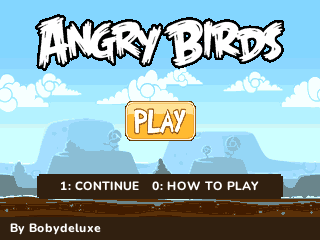
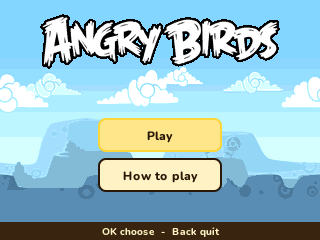
Angry Birds: docs and NumPlay's wiring
Angry Birds builds like UNO (BUILD_DIR, GAMES_REDIRECT, the apps and clean
rules, BIG_APPS, APP_SPACE_APPS: it installs in 1.73 MB), with a big-game
entry in games.json after Friday Night Funkin', its release line, its
emulator test and the CI's host test.

The game's README, its screenshots, the thumbnail and the GIF are new, made
in tools/emu.py.

diff --git a/tests/test_games.py b/tests/test_games.py
@@ -254,6 +254,11 @@ GAMES = {
     # guide read. Next time, from the copy: Options, downscroll on (Back saves it), quit with On/Off
     "fnf": ("FridayNightFunkin.nwa", "fnf.sav", presses((1500, "ok"), (2200, "ok"), (2900, "ok"), (3600, "back")), 7000,
             presses((1500, "ok"), (2200, "down"), (2700, "down"), (3200, "ok"), (3900, "ok"), (4600, "back")), 6000),
+    # the title, Poached Eggs, its first level, the story, how to play (the first time), then a bird launched; Home
+    # keeps the play time. Next time, from the copy, the same level without the guide, quit with On/Off
+    "angrybirds": ("AngryBirds.nwa", "angrybirds.sav",
+                   presses((1500, "ok"), (2200, "ok"), (2900, "ok"), (3600, "ok"), (4300, "ok"), (5500, "ok")), 9000,
+                   presses((1500, "ok"), (2200, "ok"), (2900, "ok"), (3600, "ok")), 6000),
     # a level, its message, then play; then back to the level select
     "portal": ("PortalReturns.nwa", "portal.sav",
                presses((1500, "ok"), (2500, "ok"), (3500, "ok")) + every(4000, 7000, 400, "right", 300), 8000,
@@ -320,7 +325,8 @@ COPIES = {"championisland": "champion_saves.py", "numblocks": "numblocks_saves.p
           "jetpackjoyride": "jetpackjoyride_saves.py", "stickmanhook": "stickmanhook_saves.py",
           "donkeykong": "donkeykong_saves.py", "dune": "dune_saves.py", "monkeymart": "monkeymart_saves.py",
           "tombofthemask": "tombofthemask_saves.py", "uno": "uno_saves.py",
-          "fnf": "fnf_saves.py"}
+          "fnf": "fnf_saves.py",
+          "angrybirds": "angrybirds_saves.py"}
 
 
 def dk_frames(v):
@@ -473,6 +479,12 @@ CHECKS = {
     # on (at 8), the guide still read
     "fnf": (lambda v: len(v) == 1552 and v[:4] == b"FNFS" and v[4] == 1 and v[9] == 1 and v[8] == 0,
             lambda v: len(v) == 1552 and v[:4] == b"FNFS" and v[9] == 1 and v[8] == 1),
+    # "ABS1", version 1, its size (3032): how to play shown (guide at 3014), the first level last played (3012), some
+    # seconds of play (3024); after the reinstall, from the copy, more of them
+    "angrybirds": (lambda v: len(v) == 3032 and v[:4] == b"ABS1" and v[3014] == 1
+                   and struct.unpack_from("<H", v, 3012)[0] == 0 and struct.unpack_from("<I", v, 3024)[0] >= 2,
+                   lambda v: len(v) == 3032 and v[:4] == b"ABS1" and v[3014] == 1
+                   and struct.unpack_from("<I", v, 3024)[0] >= 4),
     "breakout": (lambda v: len(v) == 12 and v[:2] == b"B\2" and v[4] == 1 and struct.unpack_from("<I", v, 8)[0] >= 10,
                  lambda v: v[4] == 0 and struct.unpack_from("<I", v, 8)[0] >= 1),  # best kept, shake off
     # Air Hockey and the easy computer chosen; then the normal computer and Tanks, the tallies of the six games kept

diff --git a/tools/release.py b/tools/release.py
@@ -26,7 +26,6 @@ REPO = "https://github.com/Mason363/NumPlay"
 EXTRAS = set()
 # games too big to fit next to NumPlay on the calculator: only on their own, in a section of their own
 ALONE = {
-    "angrybirds": ("Angry Birds", "experimental native adaptation with 429 campaign stages and 14 bonus maps; known bugs remain; by Bobydeluxe"),
     "celeste": ("Celeste", "the whole climb up Celeste Mountain"),
     "hollowknight": ("Hollow Knight", "from King's Pass to Hornet in Greenpath"),
     "undertale": ("Undertale", "the whole Underground, to the barrier and the neutral ending"),
@@ -51,6 +50,7 @@ ALONE = {
     "tombofthemask": ("Tomb of the Mask", "dash through the tomb: the endless arcade climb and all 200 stages, with the 16 masks"),
     "uno": ("UNO", "the card game against one to three bots, with the official rules and scoring to 500"),
     "fnf": ("Friday Night Funkin'", "the Tutorial, Weeks 1 to 7, Weekend 1 and LE SSERAFIM, in story mode and freeplay"),
+    "angrybirds": ("Angry Birds", "the 429 levels of the Chrome edition, its seven birds and the Mighty Eagle"),
 }
 VARIANTS = [
     ("NumPlay-Invisible.nwa", "The same app, hidden: a blank icon with no name"),

diff --git a/games/angrybirds/README.md b/games/angrybirds/README.md
@@ -1,67 +1,89 @@
-# Angry Birds
+> **Angry Birds is a [NumPlay](../../README.md) game that comes on its own.** It is too big to fit next to NumPlay on the calculator. Get `AngryBirds.nwa` from the [latest release](https://github.com/Mason363/NumPlay/releases/latest).
 
-Native standalone NumWorks adaptation by **Bobydeluxe**, based on the supplied Angry Birds Chrome/Seasons reference. English interface, offline play, seven bird types, Mighty Eagle, destructible structures, TNT, stars and persistent progression.
+<p align="center">
+  <img src="src/icon.png" width="84" alt="Angry Birds icon">
+</p>
 
-The reference contains **429 campaign stages and 14 additional maps**. All 443 are included; the separate benchmark is excluded. This is the content of this web reference, not every episode released for the mobile games.
+<h1 align="center">Angry Birds</h1>
 
-![Gameplay](docs/gameplay.png)
+<p align="center">
+  <b>Fling the birds at the pigs' castles, on the NumWorks calculator.</b><br>
+  The 429 levels of the Chrome edition, its seven birds and the Mighty Eagle.
+</p>
 
-## Known bugs
+<p align="center">
+  <a href="https://github.com/Mason363/NumPlay/releases/latest/download/AngryBirds.nwa"><b>Download AngryBirds.nwa</b></a>
+  &nbsp;·&nbsp; <a href="#controls">Controls</a>
+</p>
 
-**This game still has bugs and is experimental.** Freezes or unexpected closure when selecting a level have been reported on a physical calculator. Loading has been split into interruptible steps and passes emulator tests, but the reported hardware issue still needs confirmation on a real device. Crowded scenes may slow down on older models, and the native physics differs from the original engine. Not every stage has been played through to completion.
+<p align="center">
+  <img src="../../docs/media/angrybirds.gif" width="640" alt="Angry Birds: the first level, aimed, fired and knocked down with one bird">
+</p>
 
-## Play
+## Highlights
 
-Install `build/apps/AngryBirds.nwa` through the usual NumWorks external-app workflow. It is a standalone large game, excluded from the NumPlay launcher and `games/games.json`. From the repository root, build it with `make build/data/apps/AngryBirds.nwa` or `python tools/build.py --game angrybirds`. The release catalogue lists it among the individual large games. This fan adaptation is not affiliated with Rovio.
+* **Every level of the Chrome edition:** 429 of them in twelve episodes, Poached Eggs, Mighty Hoax, Danger Above, The Big Setup, Ham 'Em High, the Chrome Dimension, Trick or Treat, Season's Greedings, Easter Eggs, Moon Festival, Cherry Blossom and Summer Pignic.
+* **The real physics:** Box2D, the engine the original runs on, set up as the original sets it up: the same gravity, time step, materials, damage, explosions and joints. Towers lean, topple and break the way they do there.
+* **The seven birds:** the red bird and his big brother, the yellow bird that speeds up, the blue bird that splits in three, the black bird that explodes, the white bird that drops an egg bomb, and the green bird that turns back like a boomerang.
+* **The Mighty Eagle:** throw the sardine can and the eagle sweeps through the level. Destroy it all for the level's feather. The eagle comes back after an hour of play, and stays ready on the level you used it on.
+* **Secrets:** the golden eggs hidden in the classic levels open the Chrome Dimension, and the eggs hidden in Easter Eggs open its special levels.
+* **The game's look:** its own birds, pigs, blocks, slingshot, backgrounds, episode pictures and story comics.
+* **Saved as you go:** stars, best scores, feathers and the levels you opened. Home saves and quits. Your progress is also copied into `angrybirds_saves.py`, so installing the app again doesn't erase it.
 
-| Key | Action |
+<table>
+  <tr>
+    <td align="center"><img src="docs/shot.png" width="390" alt="The blue birds hitting an ice tower"><br><sub>The blue bird, split in three, through the ice</sub></td>
+    <td align="center"><img src="docs/eagle.png" width="390" alt="The Mighty Eagle swooping on a castle"><br><sub>The Mighty Eagle on its way</sub></td>
+  </tr>
+  <tr>
+    <td align="center"><img src="docs/collapse.png" width="390" alt="A tower falling"><br><sub>The first level's tower coming down</sub></td>
+    <td align="center"><img src="docs/cleared.png" width="390" alt="Level cleared"><br><sub>Level cleared, with the birds left over</sub></td>
+  </tr>
+  <tr>
+    <td align="center"><img src="docs/levels.png" width="390" alt="The levels of Poached Eggs"><br><sub>The levels and their stars</sub></td>
+    <td align="center"><img src="docs/episodes.png" width="390" alt="The episodes"><br><sub>The episodes</sub></td>
+  </tr>
+  <tr>
+    <td align="center"><img src="docs/story.png" width="390" alt="The story comic before Poached Eggs"><br><sub>The pigs take the eggs</sub></td>
+    <td align="center"><img src="docs/title.png" width="390" alt="The title screen"><br><sub>The title screen</sub></td>
+  </tr>
+</table>
+
+## How to play
+
+Knock out every pig in the level with the birds you're given. Aim with the arrows: the corner shows how high you aim and how far back the slingshot is pulled. Press **OK** to fire, and **OK** again while the bird flies to use its power. The dotted line is your last shot. Every bird you don't need is worth 10,000 points when the level is cleared, and enough points earn the second and third stars.
+
+Clearing a level opens the next one. Mighty Hoax opens once Poached Eggs is done, and Danger Above after Mighty Hoax; the other episodes are open from the start.
+
+## Controls
+
+| Key | What it does |
 | --- | --- |
-| Arrows in menus | Select episode, page or stage |
-| Up / Down in play | Adjust launch angle; hold to repeat |
-| Left / Right in play | Adjust launch power |
-| OK / EXE | Launch; press again in flight to activate a bird's power |
-| 1 in play | Aim a sardine for Mighty Eagle, once per attempt |
-| 2 in play | Toggle overview and following camera |
-| Back | Pause, resume or return |
-| Home / Power | Save progression and exit |
-| 1 on title | Restart the last selected stage |
-| 0 on title | Open controls |
+| Up and Down | Aim the slingshot (hold to aim faster) |
+| Left and Right | Pull it back less or more |
+| OK | Fire the bird; press again while it flies to use its power |
+| 1 | Call the Mighty Eagle: the sardine can goes in the slingshot |
+| shift (hold) | Look at the pigs |
+| Back | Pause (Resume, Restart, Levels, How to play, Quit game) |
+| Home | Save and quit |
 
-Each episode starts with its first stage unlocked. Clearing a stage opens the next. The 2,336-byte `angrybirds.sav` record stores best scores, stars, Eagle destruction percentages, feathers and unlocked stages. A 100% Eagle attempt earns a feather without overwriting the normal score or stars. An interrupted attempt restarts; moving bodies are not saved. Full storage offers retry, return to menu, or explicit exit without saving.
+## Good to know
 
-## Content and fidelity
+* **On its own:** Angry Birds is too big to fit next to NumPlay. Installing it from the NumWorks website swaps out NumPlay and the other apps, and installing NumPlay again swaps it back out. Your progress in each one is kept.
+* **The Chrome edition's content:** its 429 levels, not the levels of the phone versions. The few levels left unfinished in its files, which the original never shows, aren't here either. There is no music or sound (the calculator has no speaker).
+* **The Mighty Eagle's hour:** the calculator has no clock, so the hour counts while the game is open.
+* **On Upsilon:** Upsilon gives apps less memory, and seven of the most crowded levels need more than it has. They say so instead of being played.
 
-The level placements, bird order, object geometry, materials and star thresholds come from the reference data. Original sprites, classic logo, episode artwork, backgrounds and 19 story images are converted for the 320×240 screen. UI text uses NumPlay's native-size Nunito glyphs with measured wrapping and contrasting colors; the Chrome/Beta title badges are excluded.
+## Credits
 
-The physics engine is a native bounded rigid-body solver, rather than the original Java/GWT Box2D runtime. Collision responses, destruction outcomes, joints, bird abilities and Eagle percentages can therefore differ. Controls and menu layouts are adapted to the keypad. Backgrounds are composited, sprites use reduced palettes, stories are static images, and there is no audio, web editor, online service or external web comic. This adaptation does not promise identical physics or verified solutions for every stage.
+Inspired by Angry Birds by [Rovio Entertainment](https://www.rovio.com), not affiliated with Rovio. Go play Rovio's own Angry Birds games.
 
-## Storage and RAM
+* The pictures (the birds, pigs and blocks, the slingshot, the backgrounds, the episode pictures, the story comics and the logo) and the levels come from the Chrome edition's web build, read by [tools/art.py](tools/art.py) and [tools/pack.py](tools/pack.py) into `src/data.bin`. Its rules and numbers follow the game's own code.
+* The physics is [Box2D](https://box2d.org) 2.2.1 by Erin Catto (zlib license, see [src/box2d/License.txt](src/box2d/License.txt)), altered to fit the calculator's memory. The text uses NumPlay's **Nunito** font (SIL Open Font License).
+* The calculator adaptation is by **[Bobydeluxe](https://github.com/Bobydeluxe)**, who brought it to NumPlay.
 
-Current release: **1,391,696 bytes** as `.nwa`, **1,377,744 bytes** installed, **87,068 bytes** static RAM. Maximum stack observed in ARM tests: **2,504 bytes**. See [validation](VALIDATION.md) for the exact build and limits of these measurements.
+Made by Mason Chen as part of NumPlay.
 
-Levels use independent lossless DEFLATE streams and keep float32 placements. Immutable geometry and 4-bit sprite palettes stay in flash. Rendering uses an eight-line strip rather than a framebuffer; cached fixed-point sprite transforms avoid repeated floating-point work per pixel. Loading scratch shares memory with the contact buffer. Simulation has fixed body/contact/joint limits, sleeping objects and a sweep broad phase, with no gameplay heap allocation. Fast projectiles use two substeps; crowded moving scenes use fewer solver iterations.
+## License
 
-Level preparation is split across keypad polls with a visible loading screen. Back cancels preparation and Home saves and exits. The twelve original preparation steps remain in the same order, preserving the resulting starting state. Catch-up simulation work and off-screen line rendering are bounded so expensive frames cannot build an unlimited input backlog.
-
-## Build and validate
-
-Requirements: ARM GNU toolchain, Node.js with `nwlink`, Python 3 and Pillow. The checked-in inputs build offline. The recorded build used ARM GCC 15.2.1, nwlink 1.0.0 and Pillow 11.3.0.
-
-```sh
-python build.py --arm-bin /path/to/arm/bin --nwlink /path/to/nwlink
-```
-
-Run from this directory, or use the repository-relative path to `build.py`. The script exports the release to `build/apps/AngryBirds.nwa` and writes `output/build-report.json`. It checks installation against the smallest supported RAM budget and compares release/debug installed bytes.
-
-With the tools on `PATH`, Make also supports:
-
-```sh
-make check test test-assets
-cd output && ./test solve && cd ..
-python tests/test_arm.py --nwlink /path/to/nwlink
-python tests/test_arm.py --nwlink /path/to/nwlink --selection-only
-```
-
-Host tests need a C11 compiler. ARM tests additionally need Unicorn and pyelftools and use the repository's `tools/emu.py`. `test solve` writes the launch-angle fixture required by the complete ARM playthrough test. Generated reports, test storage and binaries remain in ignored `output/`.
-
-Original game, characters and artwork: **Rovio**. Native adaptation: **Bobydeluxe**. See [asset provenance](ASSETS.md).
+The game's code is licensed under the GNU General Public License v3.0: see the `LICENSE` file at the root of the repository. Box2D keeps its zlib license. The game's pictures and levels keep their own terms (see Credits). Angry Birds is a trademark of Rovio Entertainment.
